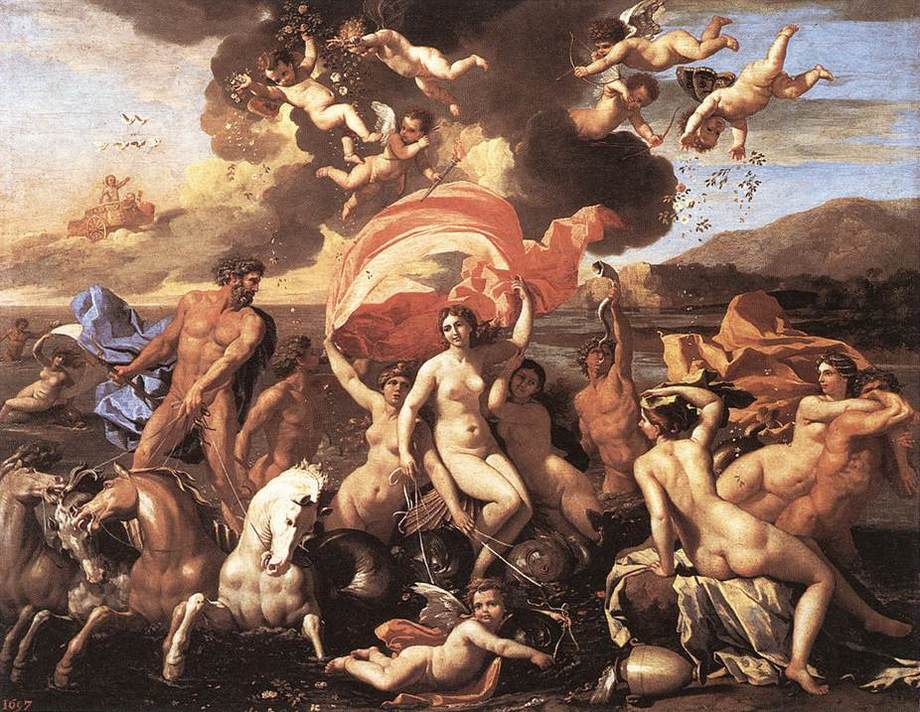
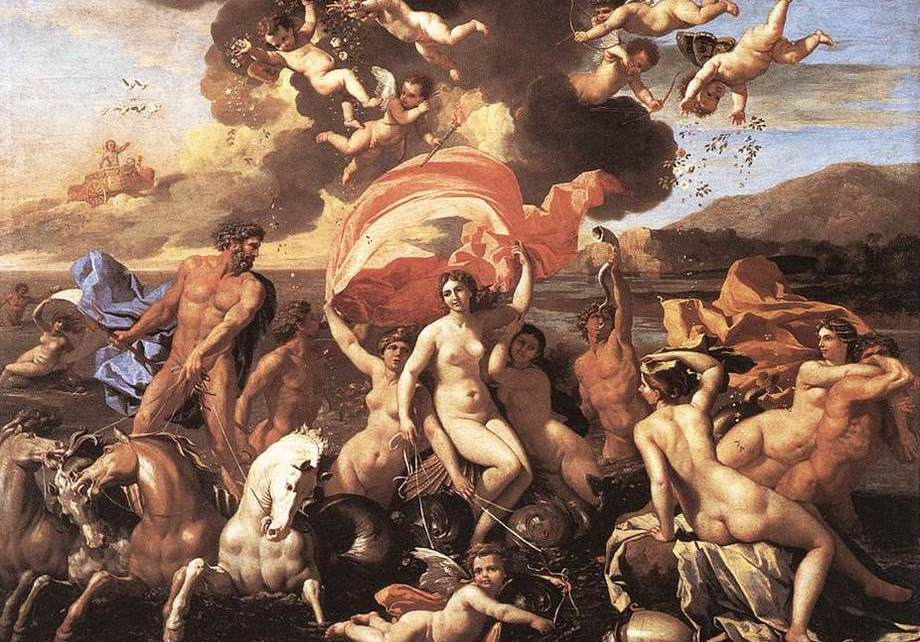
Сделал картинки одной высоты, добавил и стилизовал стрелки.

diff --git a/build/index.html b/build/index.html
@@ -1,1 +1,1 @@
-<!DOCTYPE html><html lang="ru"><head><title>Репродукцио</title><link rel="shortcut icon" href="images/favicon.ico" type="image/x-icon"><link rel="stylesheet" href="assets/css/swiper.min.css"><link rel="stylesheet" href="https://use.fontawesome.com/releases/v5.14.0/css/all.css" integrity="sha384-HzLeBuhoNPvSl5KYnjx0BT+WB0QEEqLprO+NBkkk5gbc67FTaL7XIGa2w1L0Xbgc" crossorigin="anonymous"><link rel="stylesheet" href="styles/style.css"></head></html><body><div class="main-wrapper"><header class="header"><h1 class="header__heading">Репродукцио</h1><p>Оффлайн магазин репродукий шедевров мирового искусства</p><address class="header__contacts">Санкт-Петербург, ул. Адмирала Черокова, 18</address><div class="header__links"><a class="header__contacts" href="tel:+78129602201">+7 812 960-22-01</a><a class="header__contacts" href="mailto:shop@reproduct.io">shop@reproduct.io</a></div></header><div class="main"><div class="swiper-main"><div class="swiper-wrapper"><div class="swiper-slide card"><div class="card__info"><div class="card__left"><span class="card__name">Рождение Венеры, 1636</span><span class="card__author">Никола Пуссен</span></div><div class="card__right"><span class="card__prop">97 x 108 см, холст</span><span class="card__price">2400 &#8381;</span></div></div><img src="images/main-slider/venus.jpg" alt="Рождение венеры"></div><div class="swiper-slide card"><div class="card__info"><div class="card__left"><span class="card__name">Шестикрылый серафим, 1857 </span><span class="card__author">Михаил Врубель</span></div><div class="card__right"><span class="card__prop">131 x 108 см, холст</span><span class="card__price">4100 &#8381;</span></div></div><img src="images/main-slider/seraphim.jpg" alt="Шестикрылый серафим"></div><div class="swiper-slide card"><div class="card__info"><div class="card__left"><span class="card__name">Явление Христа народу, 1857 </span><span class="card__author">Александр Иванов</span></div><div class="card__right"><span class="card__prop">120 x 90 см, холст</span><span class="card__price">3700 &#8381;</span></div></div><img src="images/main-slider/christ.jpg" alt="Явление Христа народу"></div></div></div><div class="swiper-preview"><div class="swiper-wrapper"><div class="swiper-slide"><img src="images/main-slider/venus.jpg" alt="Рождение венеры"></div><div class="swiper-slide"><img src="images/main-slider/seraphim.jpg" alt="Шестикрылый серафим"></div><div class="swiper-slide"><img src="images/main-slider/christ.jpg" alt="Явление Христа народу"></div></div></div></div></div><div class="popular"><h3 class="popular__heading">Популярное</h3><span class="popular__text">Нестареющая классика и бестселлеры</span><div class="swiper-popular"><div class="swiper-wrapper"><div class="swiper-slide popular__card"><img src="images/popular/girl.jpeg" alt="Рождение венеры"></div><div class="swiper-slide popular__card"><img src="images/popular/bonapart.jpg" alt="Шестикрылый серафим"></div><div class="swiper-slide popular__card"><img src="images/popular/hunters.jpg" alt="Явление Христа народу"></div></div><i class="fas fa-caret-left popular-left"></i><i class="fas fa-caret-right popular-right"></i></div></div></body><script src="assets/js/swiper.min.js"></script><script src="scripts/bundle.js"></script>
+<!DOCTYPE html><html lang="ru"><head><title>Репродукцио</title><link rel="shortcut icon" href="images/favicon.ico" type="image/x-icon"><link rel="stylesheet" href="assets/css/swiper.min.css"><link rel="stylesheet" href="https://use.fontawesome.com/releases/v5.14.0/css/all.css" integrity="sha384-HzLeBuhoNPvSl5KYnjx0BT+WB0QEEqLprO+NBkkk5gbc67FTaL7XIGa2w1L0Xbgc" crossorigin="anonymous"><link rel="stylesheet" href="styles/style.css"></head></html><body><div class="main-wrapper"><header class="header"><h1 class="header__heading">Репродукцио</h1><p>Оффлайн магазин репродукий шедевров мирового искусства</p><address class="header__contacts">Санкт-Петербург, ул. Адмирала Черокова, 18</address><div class="header__links"><a class="header__contacts" href="tel:+78129602201">+7 812 960-22-01</a><a class="header__contacts" href="mailto:shop@reproduct.io">shop@reproduct.io</a></div></header><div class="main"><div class="swiper-main"><div class="swiper-wrapper"><div class="swiper-slide card"><div class="card__info"><div class="card__left"><span class="card__name">Рождение Венеры, 1636</span><span class="card__author">Никола Пуссен</span></div><div class="card__right"><span class="card__prop">97 x 108 см, холст</span><span class="card__price">2400 &#8381;</span></div></div><img src="images/main-slider/venus.jpg" alt="Рождение венеры"></div><div class="swiper-slide card"><div class="card__info"><div class="card__left"><span class="card__name">Шестикрылый серафим, 1857 </span><span class="card__author">Михаил Врубель</span></div><div class="card__right"><span class="card__prop">131 x 108 см, холст</span><span class="card__price">4100 &#8381;</span></div></div><img src="images/main-slider/seraphim.jpg" alt="Шестикрылый серафим"></div><div class="swiper-slide card"><div class="card__info"><div class="card__left"><span class="card__name">Явление Христа народу, 1857 </span><span class="card__author">Александр Иванов</span></div><div class="card__right"><span class="card__prop">120 x 90 см, холст</span><span class="card__price">3700 &#8381;</span></div></div><img src="images/main-slider/christ.jpg" alt="Явление Христа народу"></div></div><i class="fas fa-caret-left main-left"></i><i class="fas fa-caret-right main-right"></i></div><div class="swiper-preview"><div class="swiper-wrapper"><div class="swiper-slide"><img src="images/main-slider/venus.jpg" alt="Рождение венеры"></div><div class="swiper-slide"><img src="images/main-slider/seraphim.jpg" alt="Шестикрылый серафим"></div><div class="swiper-slide"><img src="images/main-slider/christ.jpg" alt="Явление Христа народу"></div></div></div></div></div><div class="popular"><h3 class="popular__heading">Популярное</h3><span class="popular__text">Нестареющая классика и бестселлеры</span><div class="swiper-popular"><div class="swiper-wrapper"><div class="swiper-slide popular__card"><img src="images/popular/girl.jpeg" alt="Рождение венеры"></div><div class="swiper-slide popular__card"><img src="images/popular/bonapart.jpg" alt="Шестикрылый серафим"></div><div class="swiper-slide popular__card"><img src="images/popular/hunters.jpg" alt="Явление Христа народу"></div></div><i class="fas fa-caret-left popular-left"></i><i class="fas fa-caret-right popular-right"></i></div></div></body><script src="assets/js/swiper.min.js"></script><script src="scripts/bundle.js"></script>

diff --git a/build/styles/style.css b/build/styles/style.css
@@ -1,1 +1,1 @@
-@import url("https://fonts.googleapis.com/css2?family=Roboto:wght@100;300;400;900&display=swap");.popular{display:flex;flex-direction:column;background-color:#000;overflow:hidden;padding:30px}.swiper-popular{max-width:100%;overflow:hidden}.popular-left,.popular-right{color:#fff;opacity:.6;cursor:pointer;position:absolute}.popular-left :hover,.popular-right :hover{opacity:1}.popular-left{left:0}.popular-right{right:0}.popular__card{margin-top:30px}.swiper-slide.popular__card img{height:300px}.popular__heading,.popular__text{color:#fff}.popular__heading{font-size:32px;font-weight:400;margin-bottom:8px}.popular__text{opacity:.6}:root{--address-color:#666}body{margin:0 auto;padding:0 auto;font-family:Roboto,sans-serif;position:relative}.main-wrapper{display:grid;grid-template-columns:1fr 4fr;justify-content:space-between;grid-gap:30px;padding:50px}.main{display:grid;grid-template-columns:700px 150px;align-items:center}.header__contacts{font-style:normal;color:var(--address-color);text-decoration:none}.header__links{display:flex;flex-direction:column;margin-top:30px}.header__links :hover{color:#000}.header__heading{margin:0 auto}img{max-width:100%;-o-object-fit:cover;object-fit:cover}.swiper-button-next:after,.swiper-button-prev:after{display:none}.swiper-slide{display:flex;justify-content:center}.card{position:relative;width:900px}.card__info{display:flex;justify-content:space-between;position:absolute;color:#fff;background-color:rgba(0,0,0,.8);bottom:0;left:0;padding:10px}.card__left{margin-right:30px}.card__left,.card__right{display:flex;flex-direction:column}.card__author,.card__prop{color:#c4c4c4}.card__price{color:#e0a201}.swiper-main{overflow:hidden}.swiper-preview{width:300px;height:540px;overflow:hidden}.swiper-preview .swiper-slide{width:300px;height:170px}.swiper-preview .swiper-slide img{max-height:100%}.swiper-slide-thumb-active{opacity:.6}
+@import url("https://fonts.googleapis.com/css2?family=Roboto:wght@100;300;400;900&display=swap");.popular{display:flex;flex-direction:column;background-color:#000;overflow:hidden;padding:30px}.swiper-popular{max-width:100%;overflow:hidden}.popular-left,.popular-right{color:#fff;opacity:.6;cursor:pointer;position:absolute}.popular-left :hover,.popular-right :hover{opacity:1}.popular-left{left:0}.popular-right{right:0}.popular__card{margin-top:30px}.swiper-slide.popular__card img{height:300px}.popular__heading,.popular__text{color:#fff}.popular__heading{font-size:32px;font-weight:400;margin-bottom:8px}.popular__text{opacity:.6}:root{--address-color:#666}body{margin:0 auto;padding:0 auto;font-family:Roboto,sans-serif;position:relative}.main-wrapper{display:grid;grid-template-columns:1fr 4fr;justify-content:space-between;grid-gap:30px;padding:50px}.main{display:grid;grid-template-columns:700px 150px;align-items:center}.header__contacts{font-style:normal;color:var(--address-color);text-decoration:none}.header__links{display:flex;flex-direction:column;margin-top:30px}.header__links :hover{color:#000}.header__heading{margin:0 auto}img{max-width:100%;-o-object-fit:cover;object-fit:cover}.swiper-button-next:after,.swiper-button-prev:after{display:none}.main-left,.main-right{position:absolute;color:#d8d3cf;top:50%;z-index:1;font-size:25px}.main-left:hover,.main-right:hover{color:#fff;cursor:pointer}.main-left{left:0;margin-left:5px}.main-right{right:0;margin-right:5px}.swiper-main{overflow:hidden;position:relative}.swiper-slide{display:flex;justify-content:center}.card{position:relative;width:900px;height:600px}.card__info{display:flex;justify-content:space-between;position:absolute;color:#fff;background-color:rgba(0,0,0,.8);bottom:0;left:0;padding:10px}.card__left{margin-right:30px}.card__left,.card__right{display:flex;flex-direction:column}.card__author,.card__prop{color:#c4c4c4}.card__price{color:#e0a201}.swiper-preview{width:300px;height:540px;overflow:hidden}.swiper-preview .swiper-slide{width:300px;height:170px}.swiper-preview .swiper-slide img{max-height:100%}.swiper-slide-thumb-active{opacity:.6}

diff --git a/build/scripts/bundle.js b/build/scripts/bundle.js
@@ -93,7 +93,7 @@
 /*! no static exports found */
 /***/ (function(module, exports) {
 
-eval("const mainSwiper = document.querySelector('.swiper-main')\r\nconst previewSwiper = document.querySelector('.swiper-preview')\r\nconst sliderPopular = document.querySelector('.swiper-popular')\r\n\r\n\r\nconst previewSlider = new Swiper(previewSwiper, {\r\n  slidesPerView: 3,\r\n  direction: 'vertical',\r\n  spaceBetween: 30,\r\n  slideToClickedSlide: true,\r\n  freeMode: true,\r\n  loop: true,\r\n  centeredSlides: true,\r\n  loopedSlides: 3\r\n})\r\n\r\nconst mainSlider = new Swiper(mainSwiper, {\r\n  slidesPerView: 1,\r\n  loop: true,\r\n  navigation: {\r\n    nextEl: '.swiper-button-next',\r\n    prevEl: '.swiper-button-prev',\r\n  },\r\n  spaceBetween: 30,\r\n  thumbs: {\r\n    swiper: previewSlider\r\n  },\r\n  loopedSlides: 3\r\n})\r\n\r\nconst popularSlider = new Swiper(sliderPopular, {\r\n  slidesPerView: 3,\r\n  loop: true,\r\n  navigation: {\r\n    nextEl: '.popular-right',\r\n    prevEl: '.popular-left',\r\n  },\r\n})\n\n//# sourceURL=webpack:///./src/scripts/main.js?");
+eval("const mainSwiper = document.querySelector('.swiper-main')\r\nconst previewSwiper = document.querySelector('.swiper-preview')\r\nconst sliderPopular = document.querySelector('.swiper-popular')\r\n\r\n\r\nconst previewSlider = new Swiper(previewSwiper, {\r\n  slidesPerView: 3,\r\n  direction: 'vertical',\r\n  spaceBetween: 30,\r\n  slideToClickedSlide: true,\r\n  freeMode: true,\r\n  loop: true,\r\n  centeredSlides: true,\r\n  loopedSlides: 3\r\n})\r\n\r\nconst mainSlider = new Swiper(mainSwiper, {\r\n  slidesPerView: 1,\r\n  loop: true,\r\n  navigation: {\r\n    nextEl: '.main-left',\r\n    prevEl: '.main-right',\r\n  },\r\n  spaceBetween: 30,\r\n  thumbs: {\r\n    swiper: previewSlider\r\n  },\r\n  loopedSlides: 3\r\n})\r\n\r\nconst popularSlider = new Swiper(sliderPopular, {\r\n  slidesPerView: 3,\r\n  loop: true,\r\n  navigation: {\r\n    nextEl: '.popular-right',\r\n    prevEl: '.popular-left',\r\n  },\r\n})\n\n//# sourceURL=webpack:///./src/scripts/main.js?");
 
 /***/ })
 

diff --git a/src/styles/style.scss b/src/styles/style.scss
@@ -56,6 +56,34 @@ img {
 	display: none;
 }
 
+.main-left,
+.main-right {
+  position: absolute;
+  color: #d8d3cf;
+  top: 50%;
+  z-index: 1;
+  font-size: 25px;
+  &:hover {
+    color: #ffffff;
+    cursor: pointer;
+  }
+}
+
+.main-left {
+  left: 0;
+  margin-left: 5px;
+}
+
+.main-right {
+  right: 0;
+  margin-right: 5px;
+}
+
+.swiper-main {
+  overflow: hidden;
+  position: relative;
+}
+
 .swiper-slide {
   display: flex;
   justify-content: center;
@@ -64,6 +92,7 @@ img {
 .card {
   position: relative;
   width: 900px;
+  height: 600px;
 }
 
 .card__info {
@@ -96,9 +125,7 @@ img {
   color: #e0a201;
 }
 
-.swiper-main {
-  overflow: hidden;
-}
+
 
 .swiper-preview {
   width: 300px;

diff --git a/src/scripts/main.js b/src/scripts/main.js
@@ -18,8 +18,8 @@ const mainSlider = new Swiper(mainSwiper, {
   slidesPerView: 1,
   loop: true,
   navigation: {
-    nextEl: '.swiper-button-next',
-    prevEl: '.swiper-button-prev',
+    nextEl: '.main-left',
+    prevEl: '.main-right',
   },
   spaceBetween: 30,
   thumbs: {
